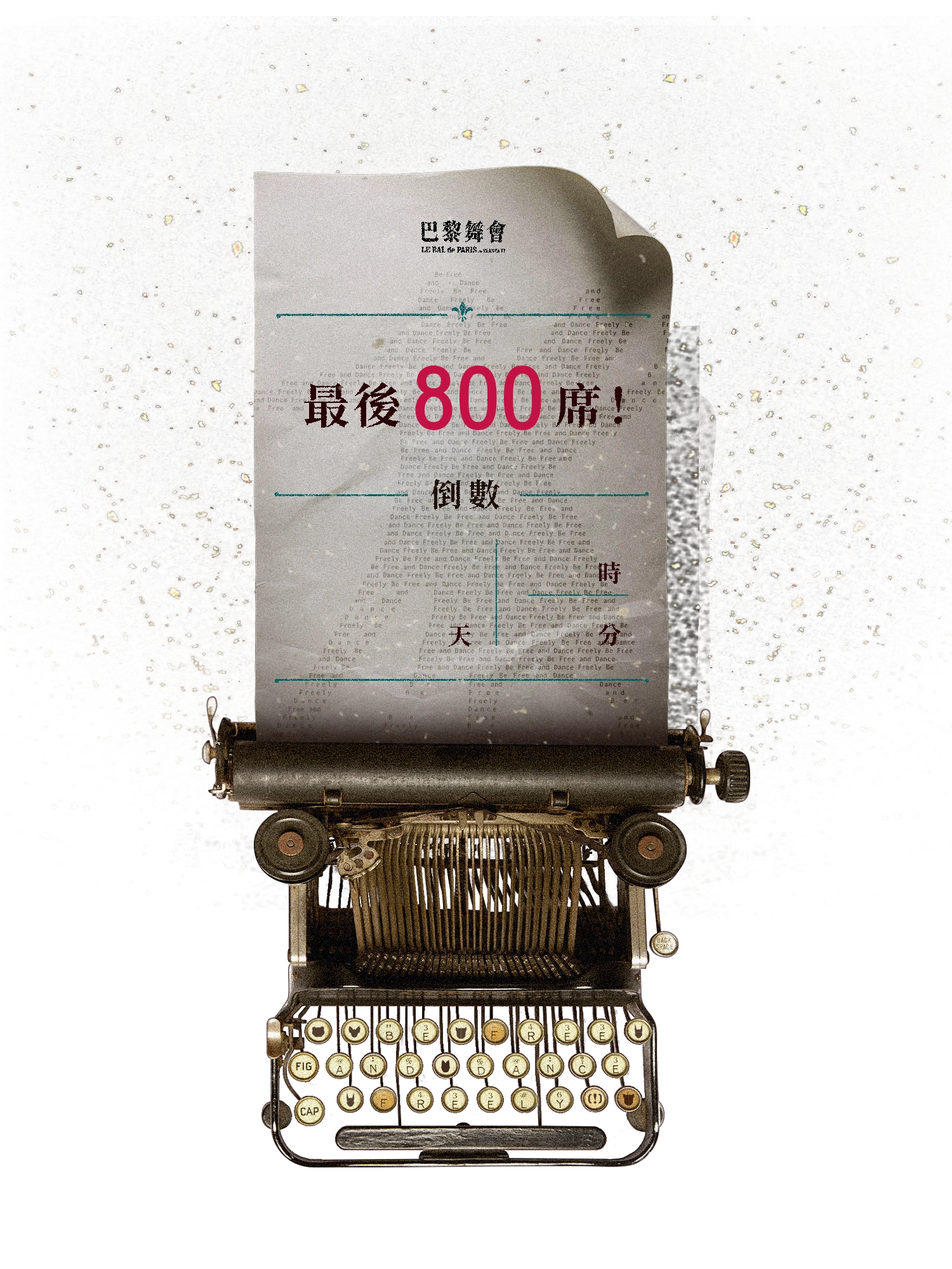
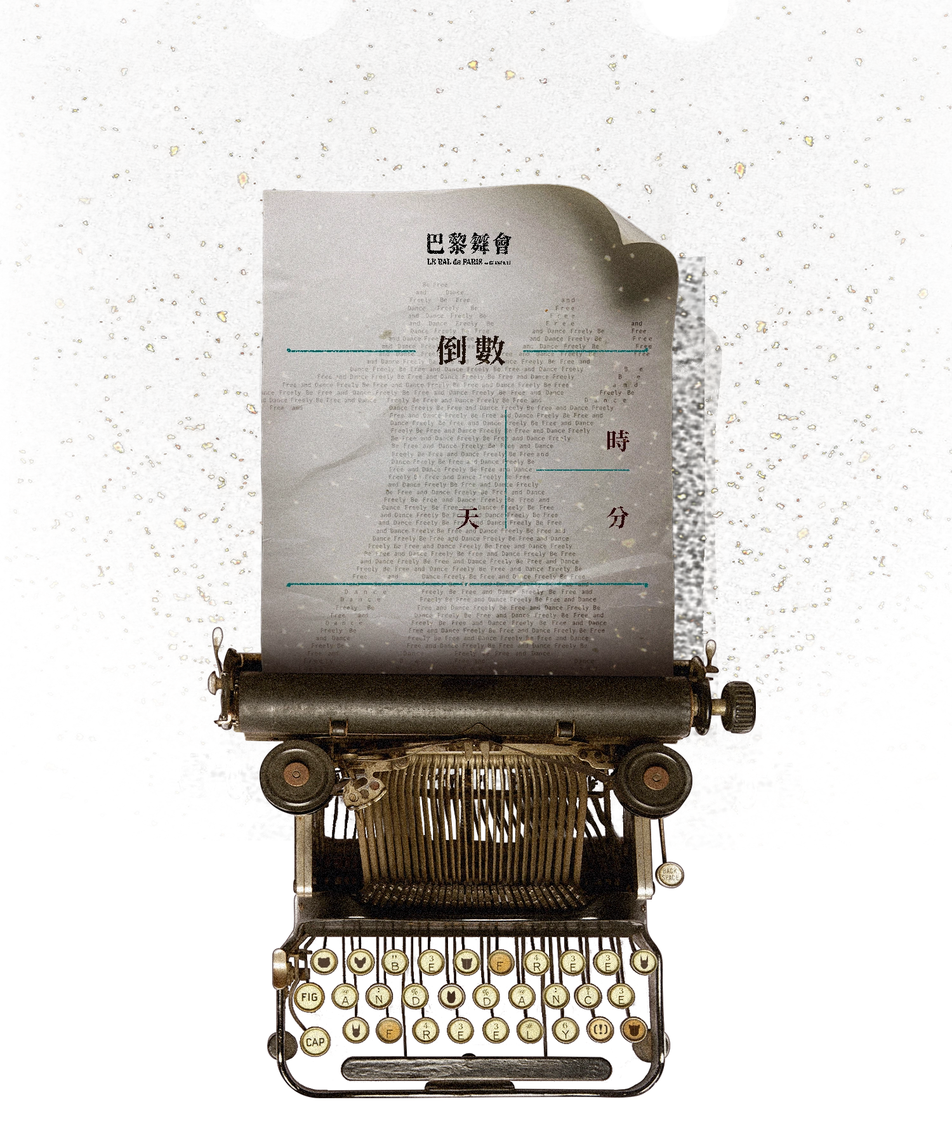
改圖

diff --git a/public/paris/css/home.css b/public/paris/css/home.css
@@ -1550,18 +1550,20 @@ body {
 }
 #home .countdown .days {
   position: absolute;
-  top: 45%;
-  left: 35%;
-  font-size: 13vw;
+  top: 38%;
+  left: 31%;
+  font-size: 16vw;
+  width: 16%;
+  text-align: right;
 }
 #home .countdown .hours, #home .countdown .minutes {
   position: absolute;
-  top: 42.4%;
-  left: 57%;
-  font-size: 5.5vw;
+  top: 34%;
+  left: 56%;
+  font-size: 7.3vw;
 }
 #home .countdown .minutes {
-  top: 47.6%;
+  top: 41%;
 }
 @media (min-width: 650px) {
   #home .countdown {
@@ -1569,17 +1571,17 @@ body {
     width: 600px;
   }
   #home .countdown .days {
-    top: 46%;
-    left: 35%;
+    top: 40%;
+    left: 30%;
     font-size: 85px;
   }
   #home .countdown .hours, #home .countdown .minutes {
     position: absolute;
-    top: 43%;
+    top: 35%;
     left: 56%;
-    font-size: 36px;
+    font-size: 45px;
   }
   #home .countdown .minutes {
-    top: 48%;
+    top: 43%;
   }
 }

diff --git a/public/paris_en/css/home.css b/public/paris_en/css/home.css
@@ -1539,18 +1539,20 @@ body {
 }
 #home .countdown .days {
   position: absolute;
-  top: 45%;
-  left: 35%;
-  font-size: 13vw;
+  top: 38%;
+  left: 31%;
+  font-size: 16vw;
+  width: 16%;
+  text-align: right;
 }
 #home .countdown .hours, #home .countdown .minutes {
   position: absolute;
-  top: 42.4%;
-  left: 57%;
-  font-size: 5.5vw;
+  top: 34%;
+  left: 56%;
+  font-size: 7.3vw;
 }
 #home .countdown .minutes {
-  top: 47.6%;
+  top: 41%;
 }
 @media (min-width: 650px) {
   #home .countdown {
@@ -1558,17 +1560,17 @@ body {
     width: 600px;
   }
   #home .countdown .days {
-    top: 46%;
-    left: 35%;
+    top: 40%;
+    left: 30%;
     font-size: 85px;
   }
   #home .countdown .hours, #home .countdown .minutes {
     position: absolute;
-    top: 43%;
+    top: 35%;
     left: 56%;
-    font-size: 36px;
+    font-size: 45px;
   }
   #home .countdown .minutes {
-    top: 48%;
+    top: 43%;
   }
 }

diff --git a/resources/views/paris/front_en/home.blade.php b/resources/views/paris/front_en/home.blade.php
@@ -25,7 +25,7 @@
     <link href="https://fonts.googleapis.com/css2?family=Noto+Sans+TC:wght@400;500;700&family=Noto+Serif+TC:wght@400;600&display=swap" rel="stylesheet">
     <link rel="stylesheet" href="https://use.typekit.net/vpt1inn.css">
     <link rel="stylesheet" href="/paris_en/css/plugins/owl.carousel.min.css">
-    <link rel="stylesheet" href="/paris_en/css/home.css?240611">
+    <link rel="stylesheet" href="/paris_en/css/home.css?240613">
 <!-- Google Tag Manager -->
 <script>(function(w,d,s,l,i){w[l]=w[l]||[];w[l].push({'gtm.start':
 new Date().getTime(),event:'gtm.js'});var f=d.getElementsByTagName(s)[0],
@@ -94,7 +94,7 @@ height="0" width="0" style="display:none;visibility:hidden"></iframe></noscript>
 
     <main id="home">
         <div class="countdown" data-date="2024-06-30 00:00:00">
-            <img src="/paris/img/countdown.webp" />
+            <img src="/paris/img/countdown.webp?20240613" />
             <div class="days"></div>
             <div class="hours"></div>
             <div class="minutes"></div>

diff --git a/resources/views/paris/frontend/home.blade.php b/resources/views/paris/frontend/home.blade.php
@@ -26,7 +26,7 @@
     <link href="https://fonts.googleapis.com/css2?family=Noto+Sans+TC:wght@400;500;700&family=Noto+Serif+TC:wght@400;600&display=swap" rel="stylesheet">
     <link rel="stylesheet" href="https://use.typekit.net/vpt1inn.css">
     <link rel="stylesheet" href="/paris/css/plugins/owl.carousel.min.css">
-    <link rel="stylesheet" href="/paris/css/home.css?2406112">
+    <link rel="stylesheet" href="/paris/css/home.css?240613">
 <!-- Google Tag Manager -->
 <script>(function(w,d,s,l,i){w[l]=w[l]||[];w[l].push({'gtm.start':
 new Date().getTime(),event:'gtm.js'});var f=d.getElementsByTagName(s)[0],
@@ -98,7 +98,7 @@ height="0" width="0" style="display:none;visibility:hidden"></iframe></noscript>
     <main id="home">
 
         <div class="countdown" data-date="2024-06-30 00:00:00">
-            <img src="/paris/img/countdown.webp" />
+            <img src="/paris/img/countdown.webp?20240613" />
             <div class="days"></div>
             <div class="hours"></div>
             <div class="minutes"></div>
